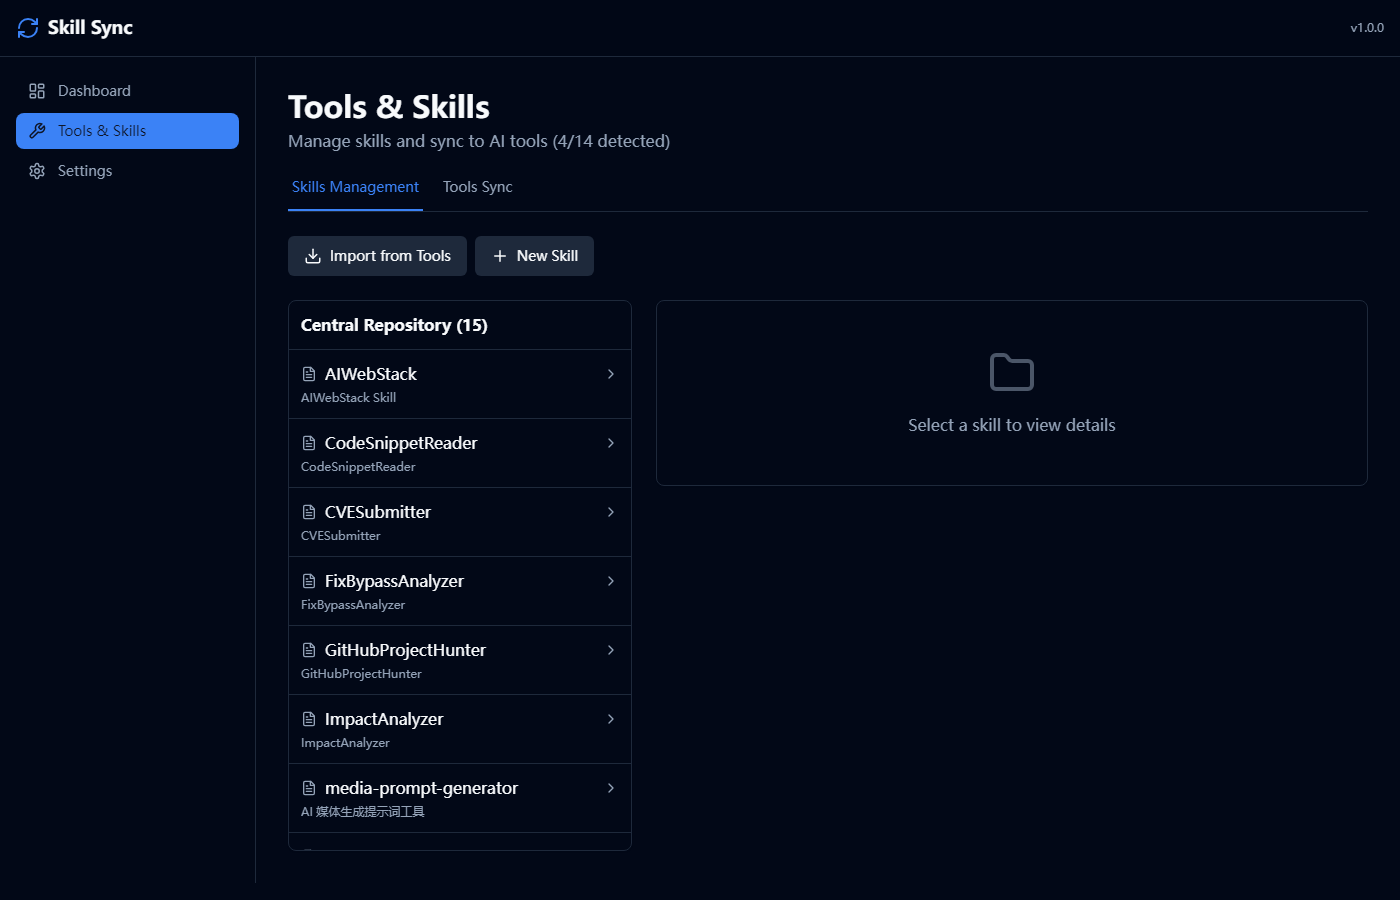
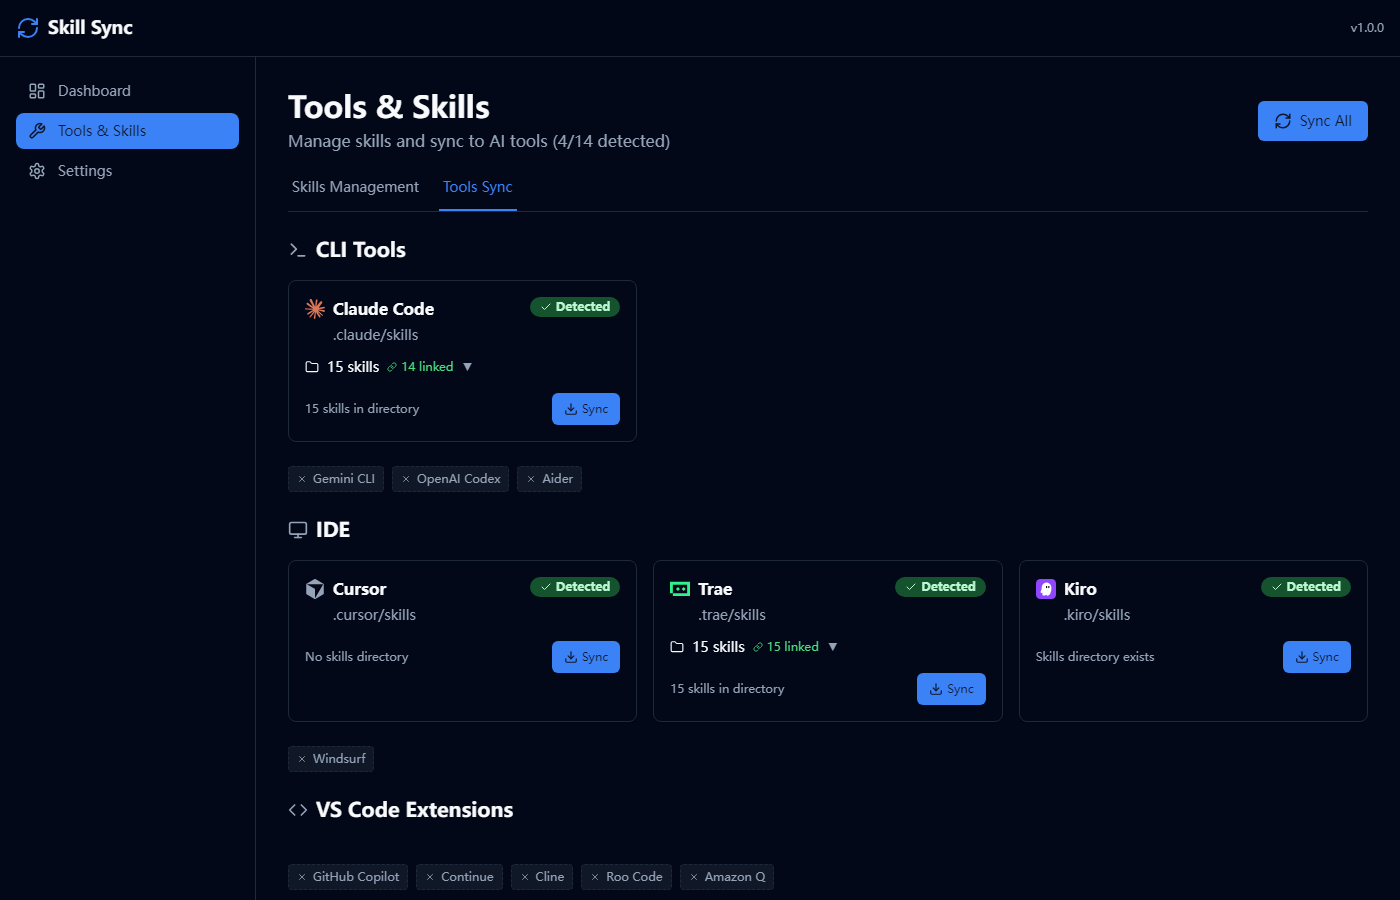
fix: repair emoji and retake Tools Sync screenshot

diff --git a/screenshots/retake_tools.py b/screenshots/retake_tools.py
@@ -1,0 +1,36 @@
+import asyncio
+from playwright.async_api import async_playwright
+import os
+
+async def take_tools_screenshot():
+    screenshots_dir = os.path.dirname(os.path.abspath(__file__))
+    
+    async with async_playwright() as p:
+        browser = await p.chromium.launch()
+        context = await browser.new_context(
+            viewport={'width': 1400, 'height': 900},
+            color_scheme='dark'
+        )
+        page = await context.new_page()
+        
+        base_url = 'http://localhost:3000'
+        
+        print("Capturing Tools Sync tab...")
+        await page.goto(f'{base_url}/tools', wait_until='networkidle')
+        await page.wait_for_timeout(1000)
+        
+        tools_tab = await page.query_selector('button:has-text("Tools Sync")')
+        if tools_tab:
+            await tools_tab.click()
+            await page.wait_for_timeout(1000)
+            print("Clicked Tools Sync tab")
+        
+        screenshot_path = os.path.join(screenshots_dir, 'tools.png')
+        await page.screenshot(path=screenshot_path, full_page=False)
+        print(f"Saved: {screenshot_path}")
+        
+        await browser.close()
+        print("Done!")
+
+if __name__ == '__main__':
+    asyncio.run(take_tools_screenshot())

diff --git a/README.md b/README.md
@@ -29,7 +29,7 @@ A modern web application for managing and synchronizing AI coding assistant skil
 |:----------:|:--------:|
 | ![Tools](./screenshots/tools.png) | ![Settings](./screenshots/settings.png) |
 
-## �🛠 Supported Tools
+## 🛠 Supported Tools
 
 | Tool | Type | Status |
 |------|------|:------:|
